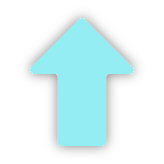
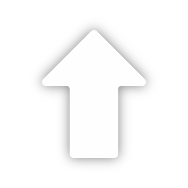
update files

Changed region(s): [[0.1524, 0.0915, 0.8232, 0.9451]]

diff --git a/landmarks.js b/landmarks.js
@@ -5,6 +5,44 @@
 // 4: Hebra Mountains        9: Lanayru Great Spring     14: Gerudo Desert
 // 5: Tabantha Tundra       10: Lanayru Wetlands         15: Gerudo Highlands
 
+const mapLabels = [
+    { text: "Hyrule Field", region: 1, level: "surface", x: -602, y: -262, size: "L" },
+    { text: "Lookout Landing", region: 1, level: "surface", x: -254, y: -7, size: "S" },
+	{ text: "Hyrule Field", region: 2, level: "surface", x: -179, y: -702, size: "L" },
+    { text: "Hyrule Ridge", region: 3, level: "surface", x: -2335, y: 427, size: "L" },
+	{ text: "Tabantha Frontier", region: 3, level: "surface", x: -3480, y: 1100, size: "L" },
+	{ text: "Rito Village", region: 4, level: "surface", x: -3619, y: 1705, size: "S" },
+	{ text: "Hebra Mountains", region: 4, level: "surface", x: -3050, y: 2853, size: "L" },
+	{ text: "Tabantha Tundra", region: 5, level: "surface", x: -1704, y: 2976, size: "L" },
+	{ text: "Great Hyrule\nForest", region: 6, level: "surface", x: 359, y: 2467, size: "L" },
+	{ text: "Death Mountain", region: 7, level: "surface", x: 2534, y: 2349, size: "L" },
+	{ text: "Eldin Canyon", region: 7, level: "surface", x: 1745, y: 1404, size: "L" },
+	{ text: "Eldin Mountains", region: 7, level: "surface", x: 1610, y: 3284, size: "L" },
+	{ text: "Goron City", region: 7, level: "surface", x: 1734, y: 2369, size: "S" },
+	{ text: "Deep Akkala", region: 8, level: "surface", x: 3552, y: 3160, size: "L" },
+	{ text: "Akkala Highlands", region: 8, level: "surface", x: 3561, y: 2218, size: "L" },
+	{ text: "Akkala Sea", region: 8, level: "surface", x: 4730, y: 3396, size: "M" },
+	{ text: "Tarrey Town", region: 8, level: "surface", x: 3970, y: 1543, size: "S" },
+	{ text: "Lanayru Sea", region: 9, level: "surface", x: 4625, y: 206, size: "M" },
+	{ text: "Lanayru Great\nSpring", region: 9, level: "surface", x: 3628, y: -67, size: "L" },
+	{ text: "Zora's Domain", region: 9, level: "surface", x: 3336, y: 544, size: "S" },
+	{ text: "Lanayru Wetlands", region: 10, level: "surface", x: 1754, y: -228, size: "L" },
+	{ text: "West Necluda", region: 10, level: "surface", x: 1460, y: -1621, size: "L" },
+	{ text: "Mount Lanayru", region: 10, level: "surface", x: 3732, y: -1137, size: "L" },
+	{ text: "Hateno Village", region: 11, level: "surface", x: 3389, y: -2220, size: "S" },
+	{ text: "Necluda Sea", region: 11, level: "surface", x: 4315, y: -2858, size: "M" },
+	{ text: "East Necluda", region: 12, level: "surface", x: 2945, y: -2683, size: "L" },
+	{ text: "Lurelin Village", region: 12, level: "surface", x: 2900, y: -3503, size: "S" },
+	{ text: "Faron Sea", region: 13, level: "surface", x: 1, y: -4082, size: "M" },
+	{ text: "Lake Hylia", region: 13, level: "surface", x: -286, y: -2439, size: "M" },
+	{ text: "Faron Grasslands", region: 13, level: "surface", x: -385, y: -3270, size: "L" },
+	{ text: "Gerudo Town", region: 14, level: "surface", x: -3854, y: -3060, size: "S" },
+	{ text: "Gerudo Desert", region: 14, level: "surface", x: -4218, y: -3296, size: "L" },
+	{ text: "Gerudo Highlands", region: 7, level: "surface", x: -3708, y: -1033, size: "L" },
+
+
+];
+
 const navArrows = [
 	{ fromRegion: 0, fromLevel: "sky", x: 454, y: -525, rotation: 0, label: "To Surface", toRegion: 1, toLevel: "surface" },
 	{ fromRegion: 0, fromLevel: "sky", x: -230, y: -1223, rotation: 270, label: "To South\nHyrule Sky", toRegion: 2, toLevel: "sky" },
@@ -14,7 +52,50 @@ const navArrows = [
 	{ fromRegion: 1, fromLevel: "surface", x: -1185, y: 570, rotation: 315, label: "To Hyrule\nRidge", toRegion: 3, toLevel: "surface" },
 	{ fromRegion: 1, fromLevel: "surface", x: 946, y: -27, rotation: 90, label: "To Lanayru\nWetlands", toRegion: 10, toLevel: "surface" },
 	{ fromRegion: 1, fromLevel: "surface", x: 411, y: 1282, rotation: 0, label: "To Great\nHyrule Forest", toRegion: 6, toLevel: "surface" },
-
+	{ fromRegion: 1, fromLevel: "sky", x: -362, y: -620, rotation: 180, label: "To South\nHyrule Sky", toRegion: 2, toLevel: "sky" },
+	{ fromRegion: 1, fromLevel: "sky", x: -1185, y: 570, rotation: 315, label: "To Tabantha\nSky", toRegion: 3, toLevel: "sky" },
+	{ fromRegion: 1, fromLevel: "sky", x: 946, y: -27, rotation: 90, label: "To North\nNecluda Sky", toRegion: 10, toLevel: "sky" },
+	{ fromRegion: 1, fromLevel: "sky", x: 411, y: 1282, rotation: 0, label: "To North\nHyrule Sky", toRegion: 6, toLevel: "sky" },
+	{ fromRegion: 1, fromLevel: "depths", x: -362, y: -620, rotation: 180, label: "To South\nHyrule Depths", toRegion: 2, toLevel: "depths" },
+	{ fromRegion: 1, fromLevel: "depths", x: -1185, y: 570, rotation: 315, label: "To Hyrule\nRidge Depths", toRegion: 3, toLevel: "depths" },
+	{ fromRegion: 1, fromLevel: "depths", x: 946, y: -27, rotation: 90, label: "To Lanayru\nWetlands Depths", toRegion: 10, toLevel: "depths" },
+	{ fromRegion: 1, fromLevel: "depths", x: 411, y: 1282, rotation: 0, label: "To Great\nHyrule Forest\nDepths", toRegion: 6, toLevel: "depths" },
+	{ fromRegion: 2, fromLevel: "surface", x: -681, y: -441, rotation: 0, label: "To North\nHyrule Field", toRegion: 1, toLevel: "surface" },
+	{ fromRegion: 2, fromLevel: "surface", x: -1725, y: 5, rotation: 345, label: "To Hyrule\nRidge", toRegion: 3, toLevel: "surface" },
+	{ fromRegion: 2, fromLevel: "surface", x: -2820, y: -1005, rotation: 255, label: "To Gerudo\nHighlands", toRegion: 15, toLevel: "surface" },
+	{ fromRegion: 2, fromLevel: "surface", x: -1694, y: -2140, rotation: 195, label: "To Gerudo\nCanyon", toRegion: 14, toLevel: "surface" },
+	{ fromRegion: 2, fromLevel: "surface", x: -94, y: -2471, rotation: 170, label: "To Lake\nHylia", toRegion: 13, toLevel: "surface" },
+	{ fromRegion: 2, fromLevel: "surface", x: 385, y: -1606, rotation: 90, label: "To West\nNecluda", toRegion: 13, toLevel: "surface" },
+	{ fromRegion: 2, fromLevel: "sky", x: -681, y: -441, rotation: 0, label: "To North\nHyrule Sky", toRegion: 1, toLevel: "sky" },
+	{ fromRegion: 2, fromLevel: "sky", x: -1725, y: 5, rotation: 345, label: "To Hyrule\nRidge Sky", toRegion: 3, toLevel: "sky" },
+	{ fromRegion: 2, fromLevel: "sky", x: -2820, y: -1005, rotation: 255, label: "To Gerudo\nHighlands Sky", toRegion: 15, toLevel: "sky" },
+	{ fromRegion: 2, fromLevel: "sky", x: -1694, y: -2140, rotation: 195, label: "To Gerudo\nDesert Sky", toRegion: 14, toLevel: "sky" },
+	{ fromRegion: 2, fromLevel: "sky", x: -94, y: -2471, rotation: 170, label: "To Lake\nHylia Sky", toRegion: 13, toLevel: "sky" },
+	{ fromRegion: 2, fromLevel: "sky", x: 385, y: -1606, rotation: 90, label: "To West\nNecluda Sky", toRegion: 13, toLevel: "sky" },
+	{ fromRegion: 2, fromLevel: "depths", x: -681, y: -441, rotation: 0, label: "To North\nHyrule Depths", toRegion: 1, toLevel: "depths" },
+	{ fromRegion: 2, fromLevel: "depths", x: -1725, y: 5, rotation: 345, label: "To Hyrule\nRidge Depths", toRegion: 3, toLevel: "depths" },
+	{ fromRegion: 2, fromLevel: "depths", x: -2820, y: -1005, rotation: 255, label: "To Gerudo\nHighlands Depths", toRegion: 15, toLevel: "depths" },
+	{ fromRegion: 2, fromLevel: "depths", x: -1694, y: -2140, rotation: 195, label: "To Gerudo\nDesert Depths", toRegion: 14, toLevel: "depths" },
+	{ fromRegion: 2, fromLevel: "depths", x: -94, y: -2471, rotation: 170, label: "To Lake\nHylia Depths", toRegion: 13, toLevel: "depths" },
+	{ fromRegion: 2, fromLevel: "depths", x: 385, y: -1606, rotation: 90, label: "To West\nNecluda Depths", toRegion: 13, toLevel: "depths" },
+	{ fromRegion: 3, fromLevel: "surface", x: -968, y: 380, rotation: 135, label: "To North\nHyrule Field", toRegion: 1, toLevel: "surface" },
+	{ fromRegion: 3, fromLevel: "surface", x: -1640, y: -289, rotation: 165, label: "To South\nHyrule Field", toRegion: 2, toLevel: "surface" },
+	{ fromRegion: 3, fromLevel: "surface", x: -3000, y: -290, rotation: 195, label: "To Gerudo\nHighlands", toRegion: 15, toLevel: "surface" },
+	{ fromRegion: 3, fromLevel: "surface", x: -3466, y: 1813, rotation: 270, label: "To Rito\nVillage", toRegion: 4, toLevel: "surface" },
+	{ fromRegion: 3, fromLevel: "surface", x: -2260, y: 2064, rotation: 15, label: "To Tabantha\nTundra", toRegion: 5, toLevel: "surface" },
+	{ fromRegion: 3, fromLevel: "surface", x: -809, y: 2440, rotation: 90, label: "To Great\nHyrule Forest", toRegion: 6, toLevel: "surface" },
+	{ fromRegion: 3, fromLevel: "sky", x: -968, y: 380, rotation: 135, label: "To North\nHyrule Sky", toRegion: 1, toLevel: "sky" },
+	{ fromRegion: 3, fromLevel: "sky", x: -1640, y: -289, rotation: 165, label: "To South\nHyrule Sky", toRegion: 2, toLevel: "sky" },
+	{ fromRegion: 3, fromLevel: "sky", x: -3000, y: -290, rotation: 195, label: "To Gerudo\nHighlands Sky", toRegion: 15, toLevel: "sky" },
+	{ fromRegion: 3, fromLevel: "sky", x: -3466, y: 1813, rotation: 270, label: "To Rito\nVillage Sky", toRegion: 4, toLevel: "sky" },
+	{ fromRegion: 3, fromLevel: "sky", x: -2260, y: 2064, rotation: 15, label: "To Tabantha\nTundra Sky", toRegion: 5, toLevel: "sky" },
+	{ fromRegion: 3, fromLevel: "sky", x: -809, y: 2440, rotation: 90, label: "To Great\nHyrule Forest Sky", toRegion: 6, toLevel: "sky" },
+	{ fromRegion: 3, fromLevel: "depths", x: -968, y: 380, rotation: 135, label: "To North\nHyrule Depths", toRegion: 1, toLevel: "depths" },
+	{ fromRegion: 3, fromLevel: "depths", x: -1640, y: -289, rotation: 165, label: "To South\nHyrule Depths", toRegion: 2, toLevel: "depths" },
+	{ fromRegion: 3, fromLevel: "depths", x: -3000, y: -290, rotation: 195, label: "To Gerudo\nHighlands Depths", toRegion: 15, toLevel: "depths" },
+	{ fromRegion: 3, fromLevel: "depths", x: -3466, y: 1813, rotation: 270, label: "To Rito\nVillage Depths", toRegion: 4, toLevel: "depths" },
+	{ fromRegion: 3, fromLevel: "depths", x: -2260, y: 2064, rotation: 15, label: "To Tabantha\nTundra Depths", toRegion: 5, toLevel: "depths" },
+	{ fromRegion: 3, fromLevel: "depths", x: -809, y: 2440, rotation: 90, label: "To Great\nHyrule Forest\nDepths", toRegion: 6, toLevel: "depths" },
 ];
 	
 const landmarks = [

diff --git a/index.html b/index.html
@@ -677,7 +677,7 @@
 			</div>
 			
 			<div class="hero-bottom">
-				<h1 class="hero-title">Companion App</h1>
+				<h1 class="hero-title">Region Companion</h1>
 			</div>
 		</div>
 	
@@ -1366,6 +1366,47 @@
         ctx.drawImage(activeImage, 0, 0);
         ctx.restore(); 
         
+        // --- DRAW MAP LABELS ---
+        const visibleLabels = mapLabels.filter(label => 
+            [].concat(label.region).includes(currentRegion.id) && 
+            label.level.toLowerCase() === currentLayer
+        );
+        
+        ctx.textAlign = 'center';
+        ctx.fillStyle = '#b9a66a'; 
+        ctx.strokeStyle = 'rgba(59, 52, 28, 0.8)';
+        
+        const minSizeMap = { "S": 10, "M": 12, "L": 14 };
+        const maxSizeMap = { "S": 20, "M": 24, "L": 28 };
+        
+        let zoomFactor = 0;
+        if (maxScale > minScale) {
+            zoomFactor = (scale - minScale) / (maxScale - minScale);
+            zoomFactor = Math.max(0, Math.min(1, zoomFactor));
+        }
+        
+        for (let label of visibleLabels) {
+            const sizeKey = label.size?.toUpperCase() || "M";
+            
+            const minSize = minSizeMap[sizeKey];
+            const maxSize = maxSizeMap[sizeKey];
+            
+            const dynamicFontSize = minSize + (zoomFactor * (maxSize - minSize));
+            
+            ctx.font = `${dynamicFontSize}px "Segoe UI", sans-serif`; 
+            ctx.lineWidth = Math.max(0.5, dynamicFontSize * 0.25);
+            
+            const imgX = (label.x - currentRegion.gameStartX) * 1.5;
+            const imgY = (currentRegion.gameStartY - label.y) * 1.5;
+            const screenX = (imgX * scale) + offsetX;
+            const screenY = (imgY * scale) + offsetY;
+        
+            ctx.strokeText(label.text, screenX, screenY);
+            ctx.fillText(label.text, screenX, screenY);
+        }
+        
+        ctx.shadowBlur = 0;
+        
         // --- DRAW LANDMARKS ---
         const visibleLandmarks = landmarks.filter(lm => 
 			[].concat(lm.region).includes(currentRegion.id) &&
@@ -1630,6 +1671,7 @@
 		
 			if (clickedArrow) {
 				executeArrowNavigation(clickedArrow);
+				isDragging = false;
 				return; 
 			}
 			
